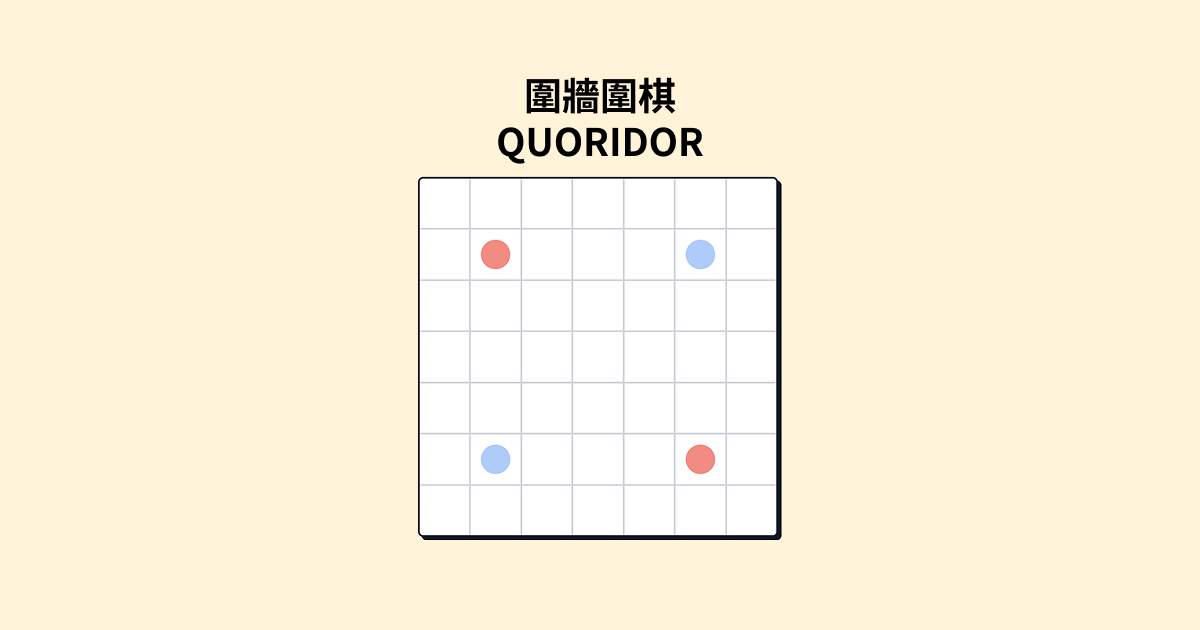
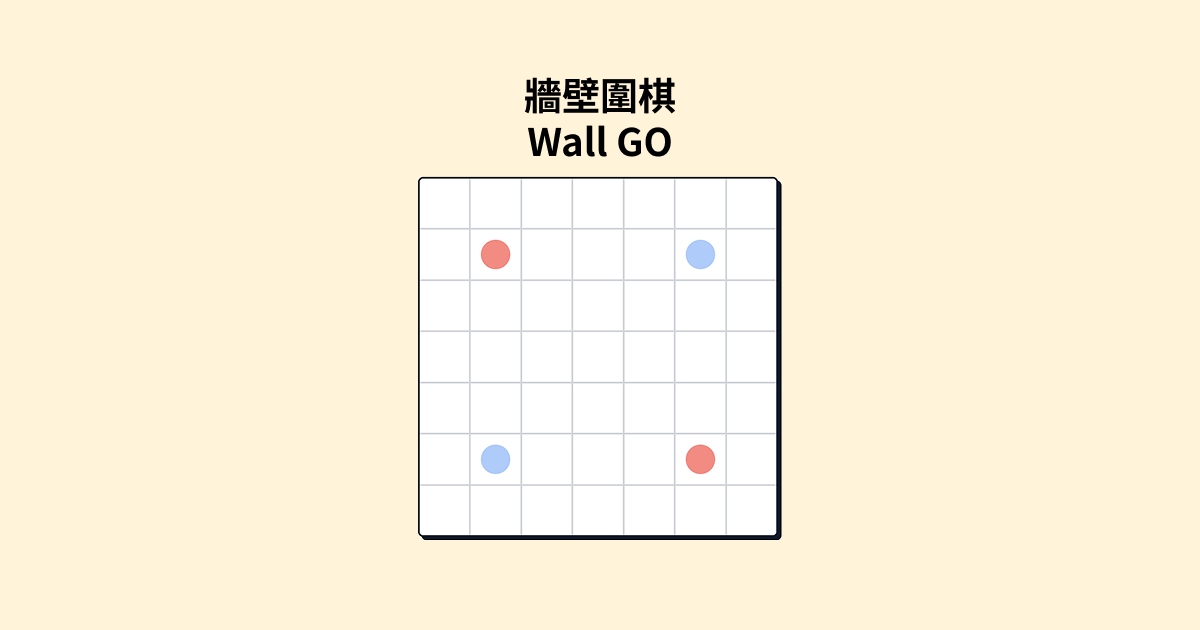
feat: 調整 SEO 來符合實際遊戲名稱

Changed region(s): [[0.4008, 0.1206, 0.5858, 0.2714]]

diff --git a/app/layout.tsx b/app/layout.tsx
@@ -26,16 +26,16 @@ export const viewport: Viewport = {
 export const metadata: Metadata = {
   metadataBase: new URL(process.env.SITE_URL || 'https://quoridorgame.com'),
   title: {
-    default: "圍牆圍棋 QUORIDOR | 策略棋盤遊戲",
-    template: "%s | 圍牆圍棋 QUORIDOR"
+    default: "牆壁圍棋 Wall Go | QUORIDOR 類型的創意線上遊戲",
+    template: "%s | 牆壁圍棋 Wall Go"
   },
-  description: "體驗如同 Netflix 熱門影集「魔鬼的計謀 2」中的智力對決。在圍牆圍棋遊戲中運用策略與心理戰，佈局如同魔鬼的計謀，贏得勝利！",
+  description: "體驗如同 Netflix 熱門影集「魔鬼的計謀 2」中的牆壁圍棋 Wall Go。在遊戲中運用策略與心理戰，佈局如同魔鬼的計謀，贏得勝利！",
   icons: {
     icon: '/favicon.ico',
     shortcut: '/favicon.ico',
     apple: '/favicon.ico',
   },
-  keywords: ["圍牆圍棋", "QUORIDOR", "魔鬼的計謀 2", "Netflix", "心理戰", "智力對決", "棋盤遊戲", "策略遊戲", "圍棋", "迷宮遊戲", "益智遊戲"],
+  keywords: ["牆壁圍棋", "Wall Go", "QUORIDOR", "魔鬼的計謀 2", "Netflix", "心理戰", "智力對決", "棋盤遊戲", "策略遊戲", "圍棋", "迷宮遊戲", "益智遊戲"],
   authors: [{ name: "Zach Chiu" }],
   creator: "Zach Chiu",
   publisher: "Zach Chiu",
@@ -48,22 +48,22 @@ export const metadata: Metadata = {
     type: "website",
     locale: "zh_TW",
     url: process.env.SITE_URL,
-    title: "圍牆圍棋 QUORIDOR - 如同「魔鬼的計謀 2」的智力對決",
-    description: "體驗如同 Netflix 熱門影集「魔鬼的計謀 2」中的智力對決。在圍牆圍棋遊戲中運用策略與心理戰，佈局如同魔鬼的計謀，贏得勝利！",
-    siteName: "圍牆圍棋 QUORIDOR",
+    title: "牆壁圍棋 Wall Go - 如同「魔鬼的計謀 2」的智力對決",
+    description: "體驗如同 Netflix 熱門影集「魔鬼的計謀 2」中的牆壁圍棋 Wall Go。在遊戲中運用策略與心理戰，佈局如同魔鬼的計謀，贏得勝利！",
+    siteName: "牆壁圍棋 Wall Go",
     images: [
       {
         url: `/og-image.png`,
         width: 1200,
         height: 630,
-        alt: "圍牆圍棋 QUORIDOR 遊戲畫面",
+        alt: "牆壁圍棋 Wall Go 遊戲畫面",
       },
     ],
   },
   twitter: {
     card: "summary_large_image",
-    title: "圍牆圍棋 QUORIDOR - 如同「魔鬼的計謀 2」的智力對決",
-    description: "體驗如同 Netflix 熱門影集「魔鬼的計謀 2」中的智力對決。在圍牆圍棋遊戲中運用策略與心理戰，佈局如同魔鬼的計謀，贏得勝利！",
+    title: "牆壁圍棋 Wall Go - 如同「魔鬼的計謀 2」的智力對決",
+    description: "體驗如同 Netflix 熱門影集「魔鬼的計謀 2」中的牆壁圍棋 Wall Go。在遊戲中運用策略與心理戰，佈局如同魔鬼的計謀，贏得勝利！",
     images: [`/og-image.png`],
   },
 };

diff --git a/app/components/ruleModal.tsx b/app/components/ruleModal.tsx
@@ -34,14 +34,14 @@ const RuleModal: React.FC<ChampionModalProps> = ({ isOpen, onClose }) => {
               <div>
                 <h3 className="mb-2 flex items-center gap-2 text-xl font-bold"><MdMovie className="text-xl text-red-500" />《魔鬼的計謀2》中的智力對決</h3>
                 <p className="text-sm leading-relaxed">
-                  圍牆圍棋是一款源自法國的策略棋盤遊戲，在 Netflix 熱門影集《魔鬼的計謀2》中被巧妙地融入劇情。劇中主角們透過這種智力對決展現了精湛的戰略思維與計謀能力，正如他們在現實生活中的心理博弈般扣人心弦。
+                  牆壁圍棋 Wall Go 是一款領地佔領遊戲，在 Netflix 熱門影集《魔鬼的計謀2》中被巧妙地融入劇情。劇中主角們透過這種智力對決展現了精湛的戰略思維與計謀能力，正如他們在現實生活中的心理博弈般扣人心弦。
                 </p>
               </div>
 
               <div>
                 <h3 className="mb-2 flex items-center gap-2 text-xl font-bold"><MdInfo className="text-xl text-blue-500" /> 遊戲背景</h3>
                 <p className="text-sm leading-relaxed">
-                  在《魔鬼的計謀2》中，圍牆圍棋成為角色間智力較量的完美象徵，展現了如何透過策略性地設置障礙與路徑規劃來達成目標，這與劇中人物之間錯綜複雜的心理戰不謀而合。
+                  在《魔鬼的計謀2》中，牆壁圍棋成為角色間智力較量的完美象徵，展現了如何透過策略性地設置障礙與路徑規劃來達成目標，這與劇中人物之間錯綜複雜的心理戰不謀而合。
                 </p>
               </div>
 
@@ -84,7 +84,7 @@ const RuleModal: React.FC<ChampionModalProps> = ({ isOpen, onClose }) => {
               <div>
                 <h3 className="mb-2 flex items-center gap-2 text-xl font-bold"><MdEmojiEvents className="text-xl text-orange-500" /> 策略要點</h3>
                 <p className="mb-2 text-sm leading-relaxed">
-                  如同《魔鬼的計謀2》中角色們精心設計的計謀，圍牆圍棋要求玩家：
+                  如同《魔鬼的計謀2》中角色們精心設計的計謀，牆壁圍棋要求玩家：
                 </p>
                 <ul className="space-y-2 text-sm">
                   <li className="flex items-start gap-2"><MdArrowRight className="mt-0.5 shrink-0 text-lg text-orange-500" /> 巧妙平衡進攻與防守策略</li>

diff --git a/app/page.tsx b/app/page.tsx
@@ -23,7 +23,7 @@ export default function Home() {
 
           <SectionShadow>
             <div className="relative flex size-full flex-col items-center justify-center gap-8 rounded-xl border-4 border-gray-900 bg-tertiary p-8 text-xl md:gap-12">
-              <h1 className="text-center text-2xl font-bold md:text-3xl lg:text-5xl">圍牆圍棋 QUORIDOR</h1>
+              <h1 className="text-center text-2xl font-bold md:text-3xl lg:text-5xl">牆壁圍棋 Wall Go</h1>
               <div className="flex flex-col gap-4">
                 <Link
                   href="/play"

diff --git a/app/play/page.tsx b/app/play/page.tsx
@@ -11,7 +11,7 @@ export default function Play() {
   return (
     <div className="flex min-h-screen items-center justify-center gap-16 overflow-hidden font-[family-name:var(--font-geist-sans)]">
       <main className="flex flex-1 items-center justify-center gap-8">
-        <h1 className="hidden">遊戲對戰 | 圍牆圍棋 QUORIDOR</h1>
+        <h1 className="hidden">遊戲對戰 | 牆壁圍棋 Wall Go</h1>
         <PlayGame />
       </main>
     </div>
